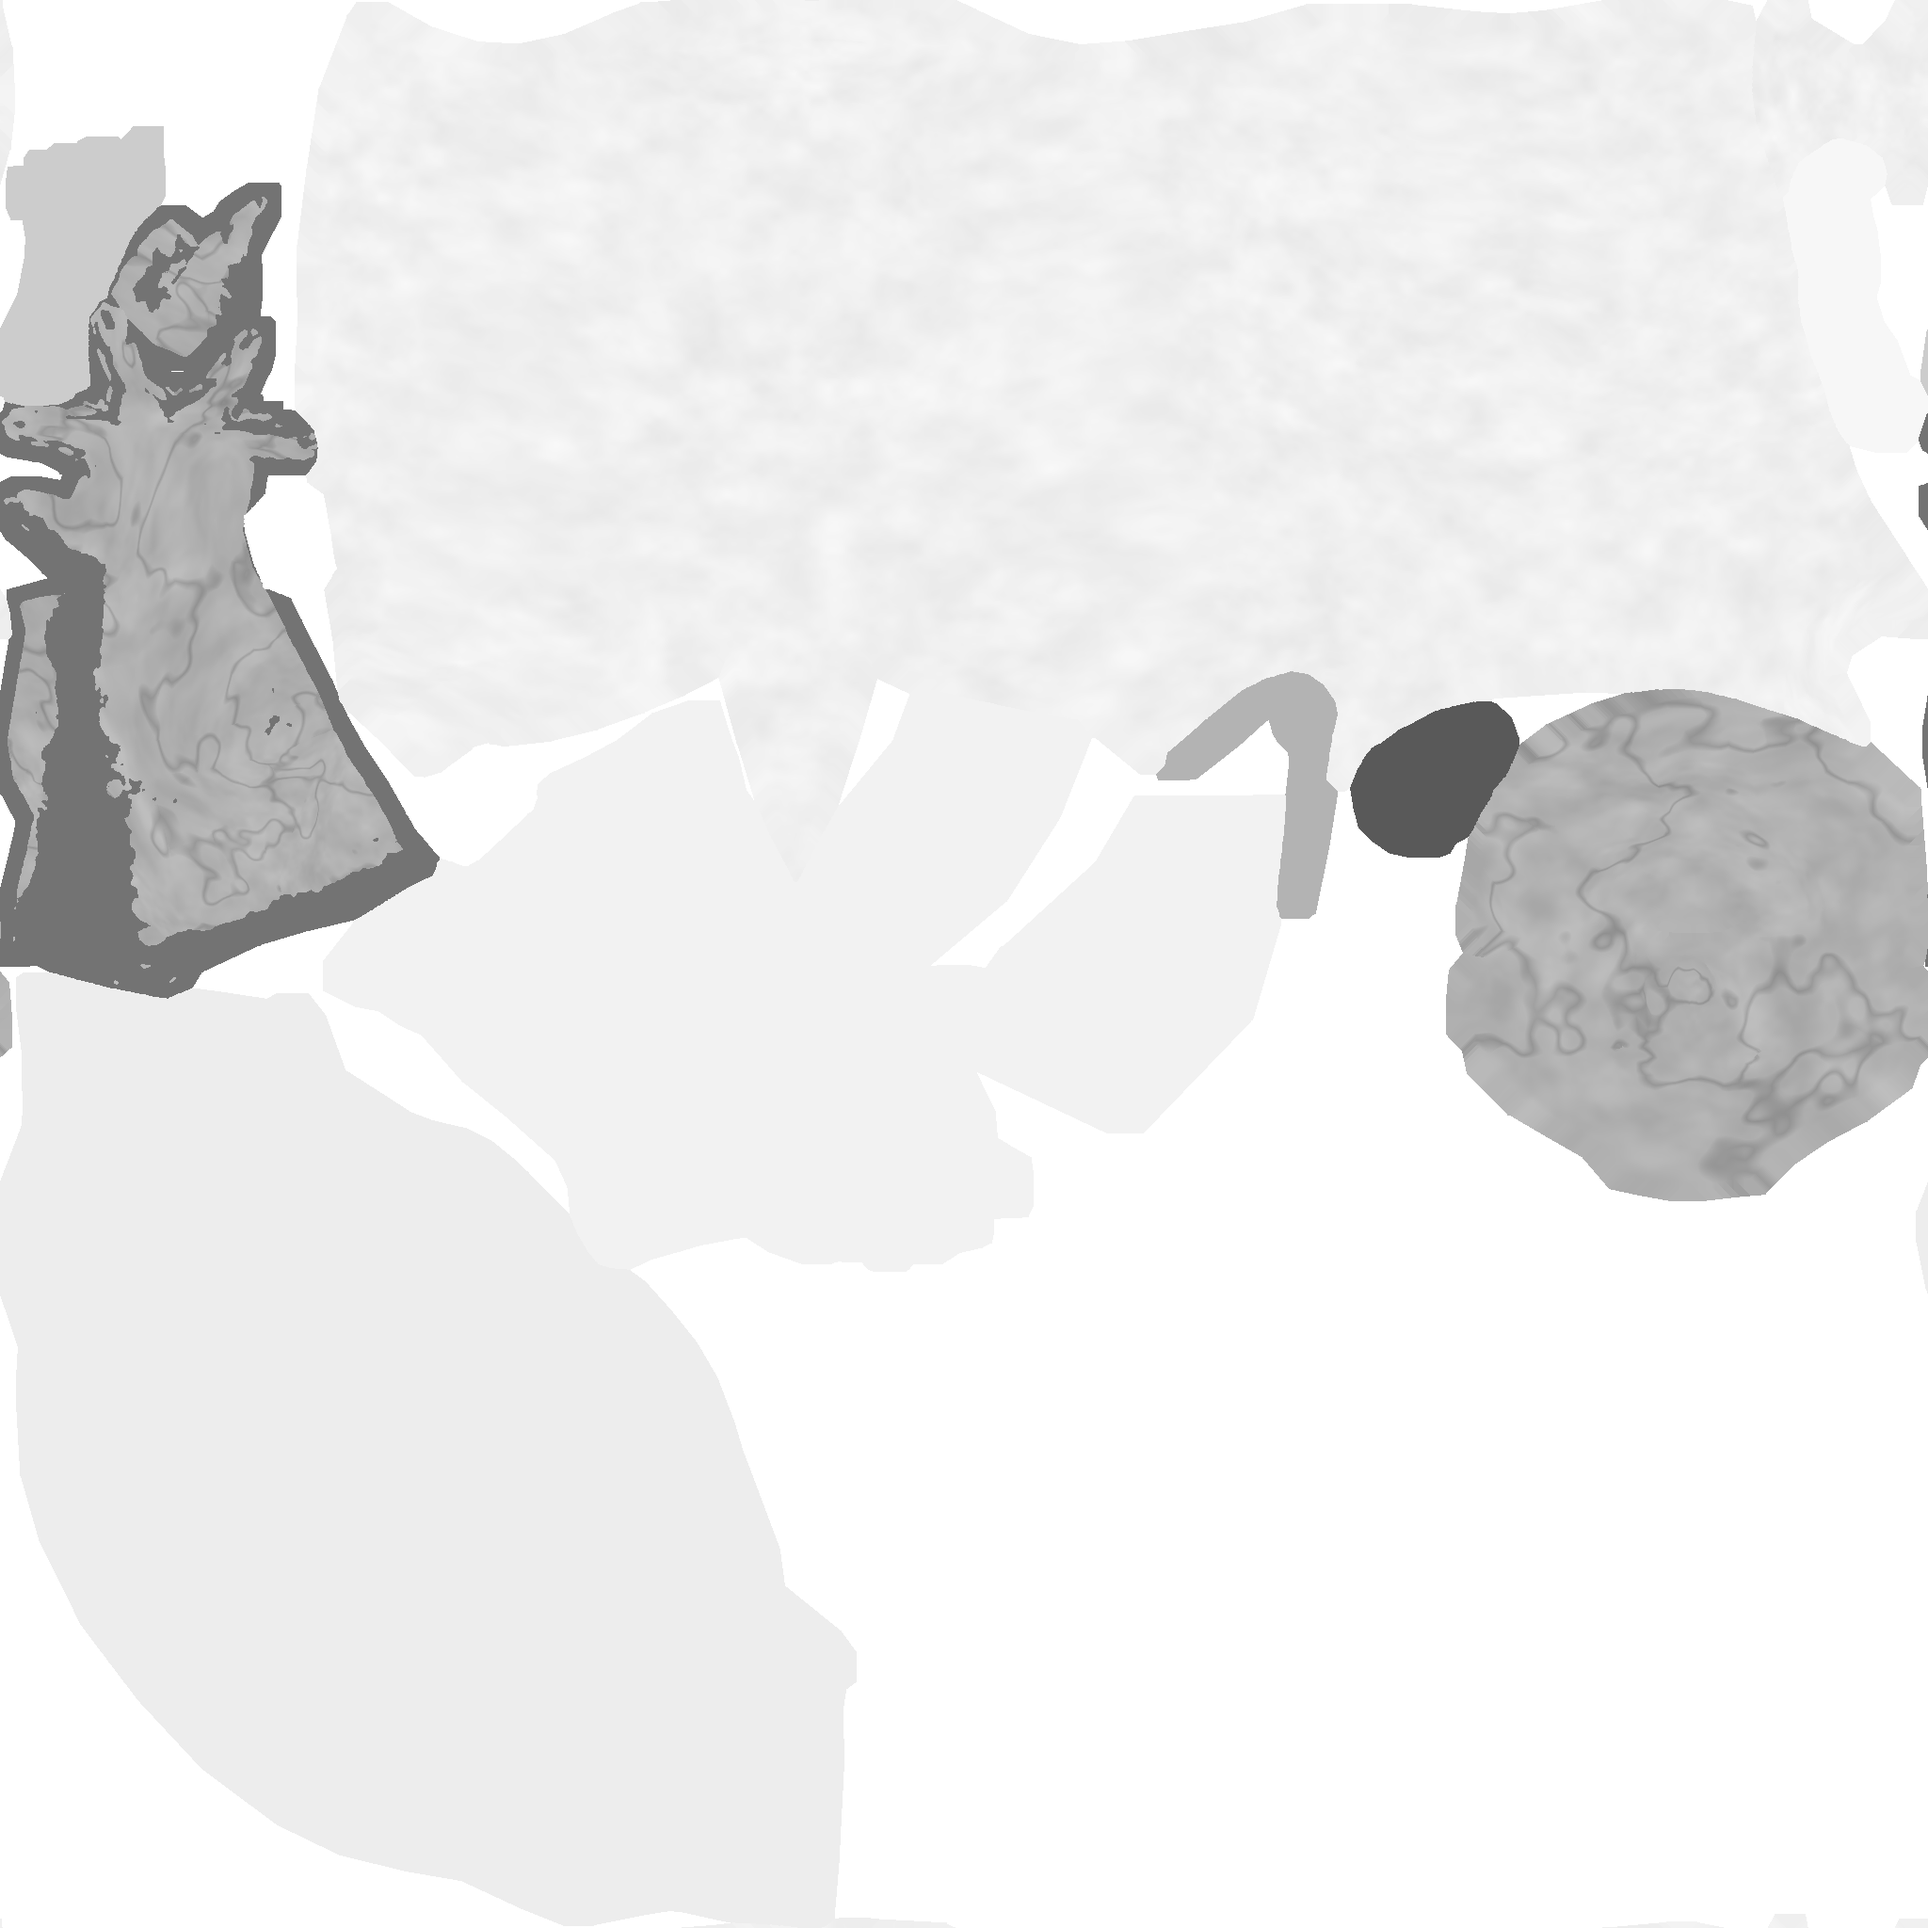
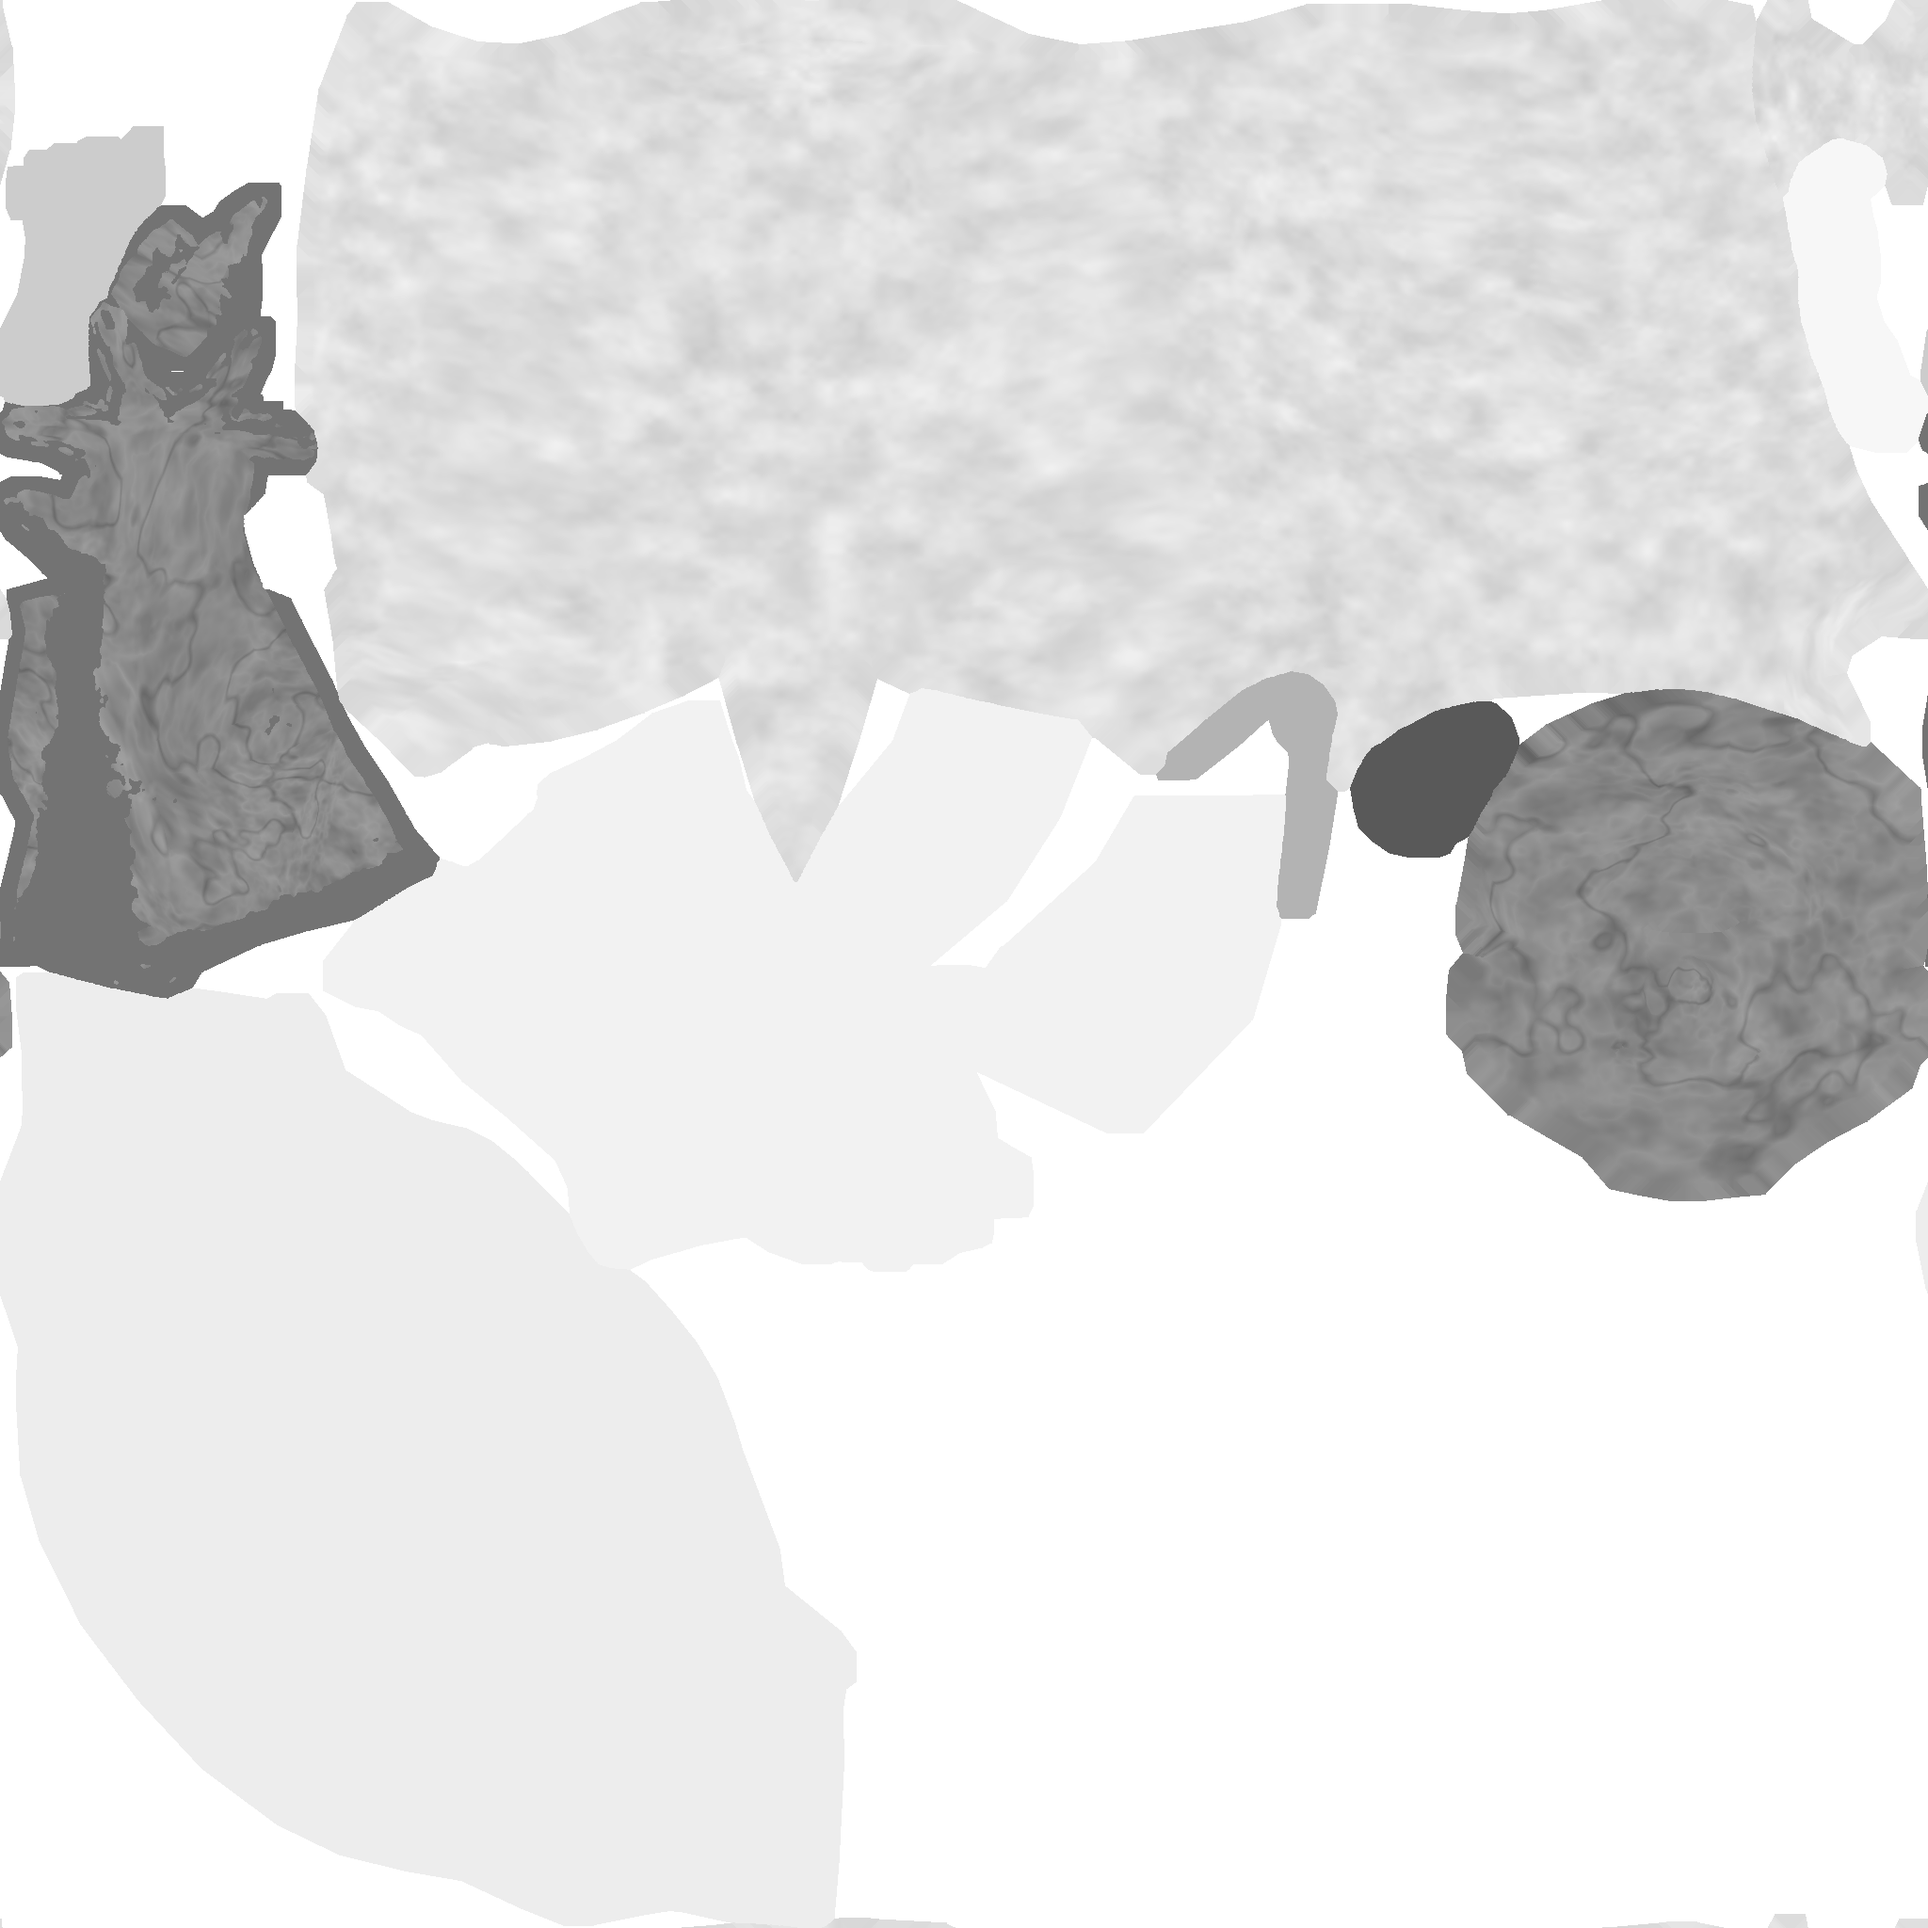
Witch: forward chest-height reach, clutch toward the viewer, waxy skin roughness, hood lag
The reach strikes forward at chest height and clutches toward the camera,
staying inside the frame and out of the hood. Skin detail is island-aware
and luminance-clamped so the hands share one tone; skin roughness is waxy
(0.42) against a dull robe, with a stronger normal bump. Hood lag is
clamped to 8 degrees; the stance is widened.

diff --git a/tools/make_witch.py b/tools/make_witch.py
@@ -615,7 +615,11 @@ mid_n = fbm(P, 6.0, 2)        # cloth mottling
 fine_n = fbm(P, 30.0, 3, 3)   # weave and grain
 # The source's painted detail (wrinkles, wrap stripes, the face): its local contrast only.
 lum_s = box(src_lum, UP)
-detail = np.clip(lum_s / np.maximum(box(src_lum, 18 * UP), 0.02), 0.55, 1.6)
+# the local mean over painted texels only: averaged with the empty atlas round an island (her left hand sits
+# at one's edge), the mean fell and the ratio lit the whole hand cream
+_valid = ((KINDS != 0) & (KINDS != SOCKET)).astype(np.float32)
+_mean = box(src_lum * _valid, 18 * UP) / np.maximum(box(_valid, 18 * UP), 1e-3)
+detail = np.clip(lum_s / np.maximum(_mean, 0.02), 0.55, 1.6)
 ang = np.arctan2(P[..., 1] - 0.05, P[..., 0] - 0.07)   # around her body axis, for folds
 
 out = np.full((H, W, 3), 0.3, dtype=np.float32)
@@ -662,7 +666,7 @@ for i, (pc, size, tint) in enumerate((((-0.12, -0.24, 0.85), 0.09, (0.26, 0.24, 
     col[m & stitch] = C(0.55, 0.5, 0.4)
 out[m] = col[m]
 hgt[m] = (0.9 * folds + 0.5 * back * pleat + 0.12 * twill + 0.25 * fine_n)[m]
-rough[m] = (0.9 + 0.08 * fine_n)[m]
+rough[m] = (0.78 + 0.18 * fine_n)[m]     # wool with a dull grease sheen where it is worn
 rough[m & (hem > 0.5)] = 0.98
 
 # Cloak and hood: moss-green wool fading to peat brown, deep folds, a twill weave, darned holes,
@@ -718,18 +722,18 @@ for kk, strength in ((SKIN, 0.7), (FACE, 0.65)):
     # the crêpe and pores kept faint: at full strength they read as speckled stone at play distance
     col *= (0.92 + 0.08 * crepe ** 2 + 0.03 * crepe2 - 0.02)[..., None]
     col *= (0.9 + 0.16 * ridge ** 2)[..., None] * (0.97 + 0.04 * pores)[..., None]
-    col *= (1.0 + strength * (detail - 1.0))[..., None] * (0.9 + 0.2 * fine_n)[..., None]
+    col *= (1.0 + strength * (np.clip(detail, 0.7, 1.25) - 1.0))[..., None] * (0.9 + 0.2 * fine_n)[..., None]
     # never pale: the source's light-painted palms read as a cream glove under the torch. Skin past a
     # dead-grey luminance is pulled back, so the whole hand is one sickly tone.
     lum = col @ np.array([0.3, 0.59, 0.11], dtype=np.float32)
-    col *= np.minimum(1.0, 0.44 / np.maximum(lum, 1e-3))[..., None]
+    col *= np.minimum(1.0, 0.4 / np.maximum(lum, 1e-3))[..., None]
     if kk == FACE:
         # gaunt: the source's hollows (cheeks, temples, under the brow) sunk deeper and bruised
         hollow = np.clip((1.0 - box(detail, 2 * UP)) * 3.0, 0, 1)
         col = mix(col, C(0.16, 0.12, 0.17), hollow * 0.7)
     out[m] = col[m]
     hgt[m] = (0.25 * crepe + 0.12 * crepe2 + 0.5 * ridge + 0.05 * pores + 0.6 * (detail - 1.0) + 0.3 * vein)[m]
-    rough[m] = (0.62 + 0.15 * fine_n - 0.1 * vein)[m]
+    rough[m] = (0.42 + 0.14 * fine_n - 0.08 * vein + 0.12 * crepe)[m]   # clammy, waxy: the light slides on it
 # Nails and fingertips: the darkest skin texels are the source's nails: keep them dark and horn-yellow.
 m = (k == SKIN) & (lum_s < 0.18)
 out[m] = (C(0.2, 0.18, 0.1) * (0.8 + 0.4 * fine_n[..., None]))[m]
@@ -781,7 +785,7 @@ def _slope(ax):
     okb = (kb == k) & (np.linalg.norm(pb - POS, axis=-1) < near)
     d = np.where(oka, a, hgt) - np.where(okb, b, hgt)
     return d / np.maximum(oka.astype(np.float32) + okb.astype(np.float32), 1.0)
-BUMP = 2.2
+BUMP = 3.0
 nx, ny = -BUMP * _slope(1), -BUMP * _slope(0)
 nz = np.ones_like(nx)
 nl = np.sqrt(nx * nx + ny * ny + nz * nz)
@@ -901,8 +905,10 @@ def _cloth_rows(name, rows, loop):
         rb = robe[f]
         kf = math.atan2(max(0.0, r["knee_f"] - KNEE_F0 - 0.02), 0.5)
         kb = math.atan2(max(0.0, r["knee_b"] - KNEE_B0 - 0.02), 0.5)
-        hx = (hood_x[f] - r["head_x"]) * fade
-        hz = (hood_z[f] - r["head_z"]) * fade
+        # the hood lags the head by half its spring, capped: the full lag at the lunge's snap down stood the
+        # hood up off her head into a tent that buried her face
+        hx = max(-d(8), min(d(8), 0.5 * (hood_x[f] - r["head_x"]))) * fade
+        hz = max(-d(8), min(d(8), 0.5 * (hood_z[f] - r["head_z"]))) * fade
         cx = (cape_x[f] - r["chest_x"]) * fade
         cz = (cape_z[f] - r["chest_z"]) * fade
         # a shoulder flap rides up with its arm once the arm is raised past 40 degrees, out to her side
@@ -1386,22 +1392,22 @@ def idle(t):
 # fingers spread), clutch (held out at you, the fingers curling shut, trembling), recover (sunk back to rest).
 # The other claw counters: drawn back by her hip, its claws turned at you.
 REACH_REST = ((0.35, -0.2, -0.92), (0.3, -0.75, -0.2), (0.1, -0.9, -0.2), (0.0, -0.6, -0.8))
-REACH_WIND = ((0.45, 0.6, -0.55), (0.35, 0.1, 0.92), (0.15, -0.45, 0.88), (0.0, -0.7, -0.7))
-REACH_STRIKE = ((0.16, -0.88, 0.45), (0.12, -0.9, 0.42), (0.1, -0.93, 0.36), (0.08, -0.97, 0.1))
-REACH_CLUTCH = ((0.15, -0.89, 0.43), (0.1, -0.91, 0.4), (0.06, -0.94, 0.34), (0.0, -0.3, -0.95))
+REACH_WIND = ((0.75, 0.45, -0.5), (0.7, 0.05, 0.7), (0.35, -0.6, 0.72), (0.0, -0.7, -0.7))
+REACH_STRIKE = ((0.3, -0.92, 0.25), (0.12, -0.97, 0.2), (0.05, -0.98, 0.18), (0.0, -0.98, -0.2))
+REACH_CLUTCH = ((0.29, -0.92, 0.24), (0.1, -0.97, 0.2), (0.03, -0.98, 0.17), (0.0, -0.3, -0.95))
 REACH_RECOVER = ((0.35, -0.55, -0.7), (0.3, -0.9, 0.1), (0.1, -0.9, -0.1), (0.0, -0.5, -0.85))
 OFF_COCK = ((0.35, 0.4, -0.85), (0.25, -0.65, -0.72), (0.1, -0.92, -0.3), (0.0, -0.7, -0.7))
 REACH_KEYS = [(0.0, REACH_REST), (0.1, REACH_REST), (0.3, REACH_WIND), (0.4, REACH_STRIKE), (0.5, REACH_STRIKE),
-              (0.58, REACH_CLUTCH), (0.7, REACH_CLUTCH), (0.84, REACH_RECOVER), (0.94, REACH_REST), (1.0, REACH_REST)]
+              (0.58, REACH_CLUTCH), (0.66, REACH_CLUTCH), (0.82, REACH_RECOVER), (0.95, REACH_REST), (1.0, REACH_REST)]
 OFF_KEYS = [(0.0, REACH_REST), (0.12, REACH_REST), (0.3, REACH_REST), (0.42, OFF_COCK), (0.7, OFF_COCK),
             (0.86, REACH_RECOVER), (0.96, REACH_REST), (1.0, REACH_REST)]
 # her trunk through it (deg, + leans forward): Spine, Chest, Neck, Head pitch and the hips forward (m, - is
 # forward): coiled back on the wind-up, thrown after her claw at the strike, hunched over the clutch
 REACH_TRUNK = [(0.0, (4, 2, -6, -10, 0.0)), (0.1, (4, 2, -6, -10, 0.0)), (0.3, (-6, -8, 4, 0, 0.08)),
-               (0.4, (22, 14, -16, -26, -0.22)), (0.5, (22, 14, -16, -26, -0.22)), (0.7, (18, 12, -14, -24, -0.16)),
-               (0.84, (10, 6, -8, -14, -0.04)), (0.94, (4, 2, -6, -10, 0.0)), (1.0, (4, 2, -6, -10, 0.0))]
+               (0.4, (15, 8, -14, -22, -0.22)), (0.5, (15, 8, -14, -22, -0.22)), (0.66, (13, 7, -12, -20, -0.17)),
+               (0.8, (9, 5, -9, -15, -0.07)), (0.94, (4, 2, -6, -10, 0.0)), (1.0, (4, 2, -6, -10, 0.0))]
 # the shoulders turn into the strike (deg about the spine, + turns her right shoulder forward)
-REACH_TWIST = [(0.0, (0,)), (0.1, (0,)), (0.3, (-14,)), (0.4, (16,)), (0.7, (12,)), (0.9, (0,)), (1.0, (0,))]
+REACH_TWIST = [(0.0, (0,)), (0.1, (0,)), (0.3, (-14,)), (0.4, (16,)), (0.66, (12,)), (0.92, (0,)), (1.0, (0,))]
 STALK_CYCLES = 4          # foot cycles a 48-frame clip: short quick steps, not the walk's long stride
 STALK_SWING = 0.35        # of a cycle, the foot in the air
 STALK_LIFT = 0.08
